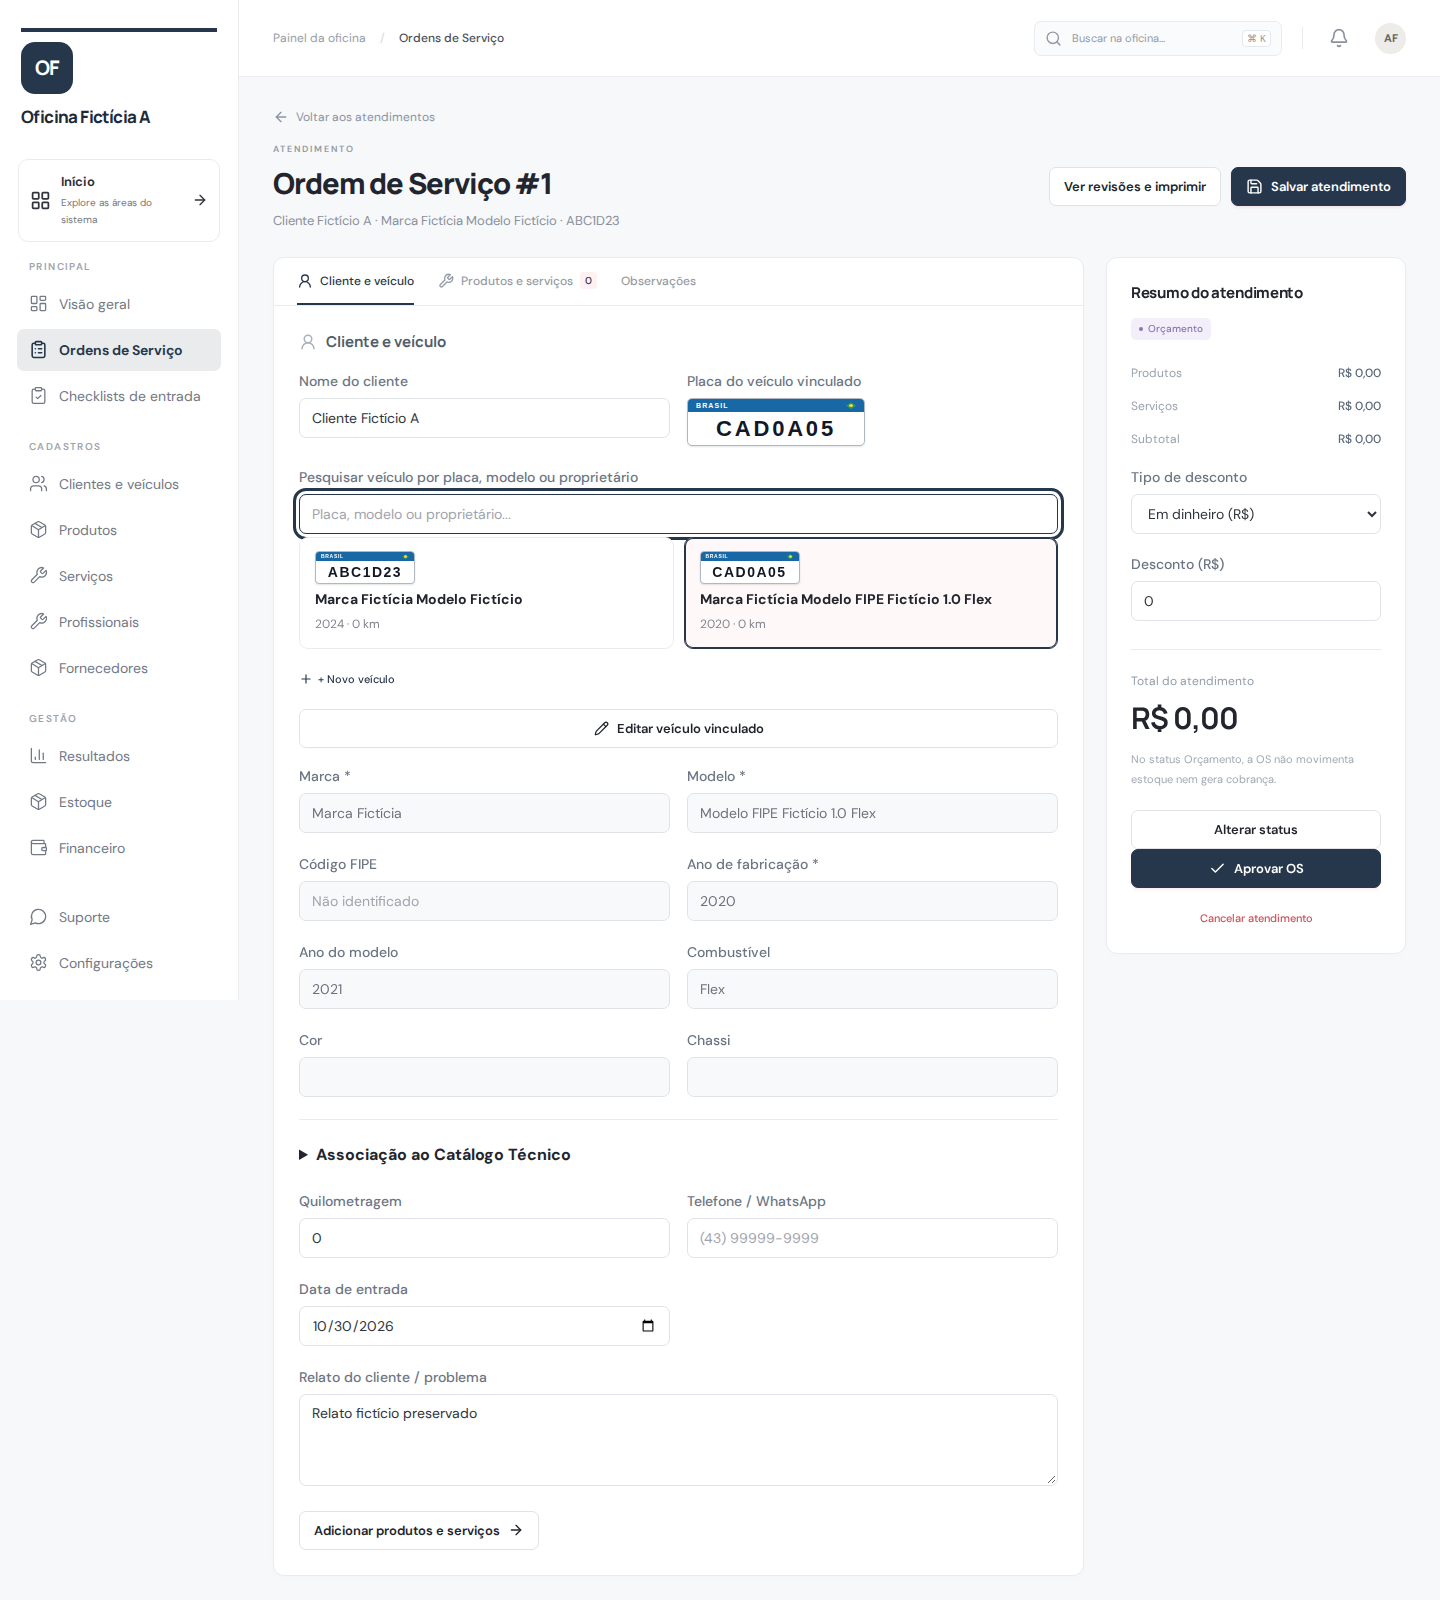
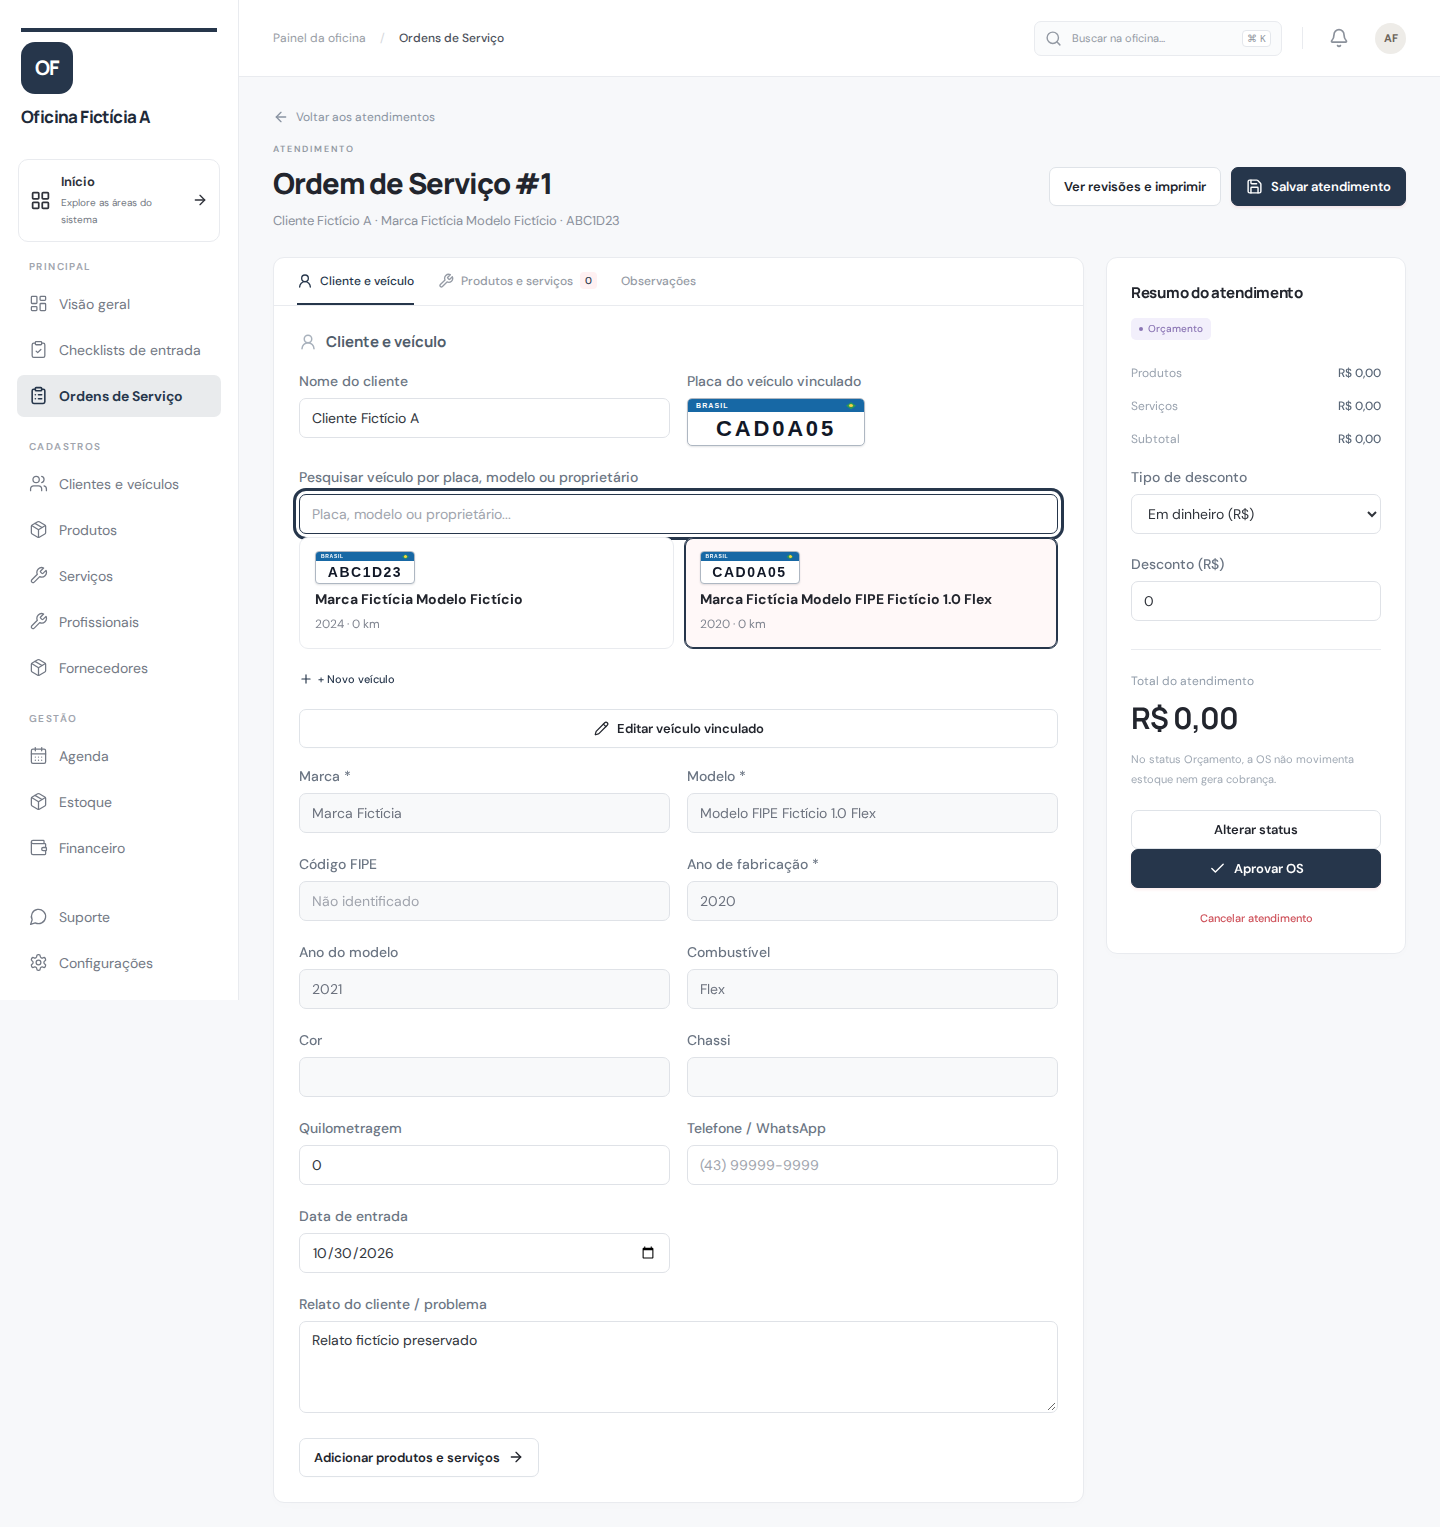
Preparar publicação da correção de modelo na OS do OSDrive

diff --git a/src/pages/OrderEditor.tsx b/src/pages/OrderEditor.tsx
@@ -27,10 +27,10 @@ import { useApp } from "../lib/context";
 import { send } from "../lib/api";
 import { saveOrderAndRefresh } from "../lib/orderSaveFlow";
 import { PlateField } from "../components/PlateField";
-import { fipeFields } from "../../shared/vehicleFipe";
+import { fipeFields, type FipeCandidate } from "../../shared/vehicleFipe";
 import { mergeVehicleLookup, lookupWouldReplace, vehicleDisplayModel } from "../../shared/vehicleIdentity";
 import { VehicleIdentityFields } from "../components/VehicleIdentityFields";
-import { VehicleTechnicalAssociation } from "../components/VehicleTechnicalAssociation";
+import { VehicleModelSelection } from "../components/VehicleModelSelection";
 import { RegisterModal } from "./Registers";
 import { money, today, statusLabel, type Entity } from "../lib/types";
 import {
@@ -112,7 +112,10 @@ function Editor({ order, quote }: { order?: Entity; quote: boolean }) {
     data.customers.find((c) => c.id === order?.customer_id)?.phone || "",
   );
   const initialVehicle = data.vehicles.find((v) => v.id === order?.vehicle_id);
-  const [lookedUp, setLookedUp] = useState<Record<string, any>>(initialVehicle || {});
+  const [lookedUp, setLookedUp] = useState<Record<string, any>>(() => initialVehicle || {
+    model: !order?.vehicle_id && !order?.guest_plate ? order?.guest_vehicle || "" : "",
+  });
+  const [plateCandidates, setPlateCandidates] = useState<FipeCandidate[]>([]);
   const [tab, setTab] = useState(initialCapture && order ? "items" : "details");
   const [itemKind, setItemKind] = useState("product");
   const [serviceModelId,setServiceModelId]=useState(data.vehicles.find(v=>v.id===order?.vehicle_id)?.service_model_id||'');
@@ -500,9 +503,11 @@ function Editor({ order, quote }: { order?: Entity; quote: boolean }) {
                       </Field>
                     ) : (
                     <PlateField
+                      showFipeSelection={false}
                       value={lookupPlate}
                       disabled={!!locked}
                       onChange={(plate) => {
+                        setPlateCandidates([]);
                         setLookupPlate(plate);
                         setLookedUp((current) => ({ ...current, plate }));
                         setError("");
@@ -515,6 +520,7 @@ function Editor({ order, quote }: { order?: Entity; quote: boolean }) {
                         }
                         setError("");
                         if (result.source === "local" && result.vehicle) {
+                          setPlateCandidates([]);
                           setLookedUp(result.vehicle);
                           setServiceModelId(String(result.vehicle.service_model_id || ""));
                           const owner = data.customers.find((c) => c.id === result.vehicle!.customer_id);
@@ -535,6 +541,7 @@ function Editor({ order, quote }: { order?: Entity; quote: boolean }) {
                           setCustomerPhone(owner.phone || "");
                         } else {
                           if (result.vehicle && lookupWouldReplace(lookedUp, result.vehicle) && !window.confirm("A consulta retornou dados diferentes dos já preenchidos. Aplicar os novos dados?")) return;
+                          setPlateCandidates(result.fipe_candidates || []);
                           const description = [result.vehicle?.brand, vehicleDisplayModel(result.vehicle)].filter(Boolean).join(" ");
                           setLookedUp(mergeVehicleLookup(lookedUp, result.vehicle));
                           setForm((f) => ({
@@ -597,19 +604,28 @@ function Editor({ order, quote }: { order?: Entity; quote: boolean }) {
                         Editar veículo vinculado
                       </button>
                     )}
-                    <VehicleIdentityFields vehicle={lookedUp} onChange={setLookedUp} disabled={!!form.vehicle_id} required={form.status !== "quote" || !!lookupPlate} />
-                    <VehicleTechnicalAssociation vehicle={lookedUp} modelId={serviceModelId} onModelChange={(id) => { setServiceModelId(id); setServiceModelTouched(true); setLookedUp((current) => ({ ...current, service_model_id: id || null, service_link_mode: id ? "manual" : "none" })); }} />
+                    <VehicleIdentityFields
+                      vehicle={vehicle || lookedUp}
+                      onChange={setLookedUp}
+                      disabled={!!form.vehicle_id || !!locked}
+                      required={form.status !== "quote" || !!lookupPlate}
+                      modelPicker={!form.vehicle_id && !locked ? (
+                        <VehicleModelSelection vehicle={lookedUp} required={form.status !== "quote" || !!lookupPlate} candidates={plateCandidates} onChange={(next) => {
+                          setLookedUp(next);
+                          handleServiceModelChange(String(next.service_model_id || ""));
+                          setForm((current) => ({
+                            ...current,
+                            guest_vehicle: !lookupPlate ? vehicleDisplayModel(next) : current.guest_vehicle,
+                          }));
+                        }} />
+                      ) : undefined}
+                    />
                     <Field label="Quilometragem">
                       <NumericInput type="number" min="0" value={form.km} onChange={(e) => set("km", Number(e.target.value))} />
                     </Field>
                     <Field label={!form.customer_id && customerName.trim() ? "Telefone / WhatsApp *" : "Telefone / WhatsApp"}>
                       <input type="tel" autoComplete="tel" maxLength={60} value={customerPhone} readOnly={!!form.customer_id} required={!form.customer_id && !!customerName.trim()} placeholder="(43) 99999-9999" onChange={(e) => setCustomerPhone(e.target.value)} />
                     </Field>
-                    {form.status === "quote" && !lookupPlate && !form.vehicle_id && (
-                      <Field label="Descrição do veículo (opcional)" full>
-                        <input maxLength={200} value={form.guest_vehicle} onChange={(e) => set("guest_vehicle", e.target.value)} />
-                      </Field>
-                    )}
                     {!form.customer_id && customerName.trim() && <p className="muted full">O cliente será cadastrado ao salvar o atendimento.</p>}
                     <Field label="Data de entrada">
                       <input type="date" value={form.entered_on} onChange={(e) => set("entered_on", e.target.value)} />

diff --git a/src/components/VehicleModelSelection.tsx b/src/components/VehicleModelSelection.tsx
@@ -7,10 +7,11 @@ type Option = { id: string; name: string; brand: string; fipe_code: string };
 type Choice = { key: string; name: string; detail: string; candidate?: FipeCandidate; option?: Option };
 const normalize = (value: string) => value.normalize("NFD").replace(/[\u0300-\u036f]/g, "").toLowerCase();
 
-export function VehicleModelSelection({ vehicle, onChange, candidates = [] }: {
+export function VehicleModelSelection({ vehicle, onChange, candidates = [], required = true }: {
   vehicle: Record<string, any>;
   onChange: (next: Record<string, any>) => void;
   candidates?: FipeCandidate[];
+  required?: boolean;
 }) {
   const [options, setOptions] = useState<Option[]>([]);
   const [message, setMessage] = useState("");
@@ -110,7 +111,7 @@ export function VehicleModelSelection({ vehicle, onChange, candidates = [] }: {
     }
   };
   return <section ref={rootRef} className="vehicle-technical-association full">
-    <label className="field"><span>Modelo *</span><input required type="search" role="combobox" aria-expanded={open} aria-controls={listId} aria-autocomplete="list" value={search} onFocus={() => { setOpen(true); setActiveIndex(0); }} onChange={(event) => { setSearchTouched(true); setSearch(event.target.value); setOpen(true); setActiveIndex(0); }} onKeyDown={keyDown} placeholder="Digite ou escolha o modelo do veículo..." maxLength={150} /></label>
+    <label className="field"><span>{required ? "Modelo *" : "Modelo"}</span><input required={required} type="search" role="combobox" aria-expanded={open} aria-controls={listId} aria-autocomplete="list" value={search} onFocus={() => { setOpen(true); setActiveIndex(0); }} onChange={(event) => { setSearchTouched(true); setSearch(event.target.value); setOpen(true); setActiveIndex(0); }} onKeyDown={keyDown} placeholder="Digite ou escolha o modelo do veículo..." maxLength={150} /></label>
     {open && <div className="catalog-dropdown" style={{ position: "relative", inset: "auto", width: "100%", marginTop: 4, zIndex: 2 }}>
       <div className="catalog-dropdown-list" style={{ maxHeight: 240 }}>
         <div id={listId} role="listbox" aria-label="Modelos do veículo">

diff --git a/tests/localPostgres.integration.ts b/tests/localPostgres.integration.ts
@@ -195,6 +195,7 @@ test("PostgreSQL local: autenticação, oficinas, transações e RLS do catálog
     const services=await catalogRead("local-a",()=>searchRepairServices(db,ctx,model,{q:serviceQuery}));
     const service=serviceId ? services.items.find(item=>item.service_id===serviceId) : services.items[0];
     assert.ok(service);
+    const existingOrderIds = (await listOrders(db, "local-a")).map((row) => row.id).sort();
     const stop=new Error("rollback fixture OS");
     await assert.rejects(db.transaction(async()=>{
        await db.prepare("SELECT set_config('app.user_id',?,true)").get(ctx.userId);
@@ -208,7 +209,7 @@ test("PostgreSQL local: autenticação, oficinas, transações e RLS do catálog
       assert.equal((await listOrders(db,"local-b")).length,0);
       throw stop;
     }),e=>e===stop);
-    assert.equal((await listOrders(db,"local-a")).length,0);
+    assert.deepEqual((await listOrders(db, "local-a")).map((row) => row.id).sort(), existingOrderIds);
   });
   await t.test("OS finalizada reabre com reversão atômica e bloqueia recebimento confirmado", async () => {
     const { saveOrder, transitionOrder, listOrders } = await import("../server/services/workshop");

diff --git a/docs/mapeamento-visual/CHECKLIST.md b/docs/mapeamento-visual/CHECKLIST.md
@@ -116,10 +116,10 @@ Estados: capturada, pendente, bloqueada e não aplicável.
 | cad005-review-mobile | Veículos | CAD-005 — Revisão de veículo (mobile) — Formulário real com dados fictícios; modelo em lista suspensa que fecha após a escolha. | [`capturas/04-veiculos/cad005-review-mobile.png`](./capturas/04-veiculos/cad005-review-mobile.png) | capturada | 2026-11-17 | 27c7fb615ef31f460c7b9d12778dfd91fecaba01 | — |
 | cad005-checklist-desktop | Checklist | CAD-005 — Veículo no checklist (desktop) — Formulário real com dados fictícios; modelo em lista suspensa que fecha após a escolha. | [`capturas/05-checklist/cad005-checklist-desktop.png`](./capturas/05-checklist/cad005-checklist-desktop.png) | capturada | 2026-11-17 | 27c7fb615ef31f460c7b9d12778dfd91fecaba01 | — |
 | cad005-checklist-mobile | Checklist | CAD-005 — Veículo no checklist (mobile) — Formulário real com dados fictícios; modelo em lista suspensa que fecha após a escolha. | [`capturas/05-checklist/cad005-checklist-mobile.png`](./capturas/05-checklist/cad005-checklist-mobile.png) | capturada | 2026-11-17 | 27c7fb615ef31f460c7b9d12778dfd91fecaba01 | — |
-| cad005-order-desktop | Orçamentos | CAD-005 — Veículo na abertura do atendimento (desktop) — Formulário real com dados fictícios; identificação FIPE independente da associação técnica. | [`capturas/06-orcamentos/cad005-order-desktop.png`](./capturas/06-orcamentos/cad005-order-desktop.png) | capturada | 2026-11-14 | 3f53da28177e3d9d5cca9811e7a403e008863a9a | — |
-| cad005-order-mobile | Orçamentos | CAD-005 — Veículo na abertura do atendimento (mobile) — Formulário real com dados fictícios; identificação FIPE independente da associação técnica. | [`capturas/06-orcamentos/cad005-order-mobile.png`](./capturas/06-orcamentos/cad005-order-mobile.png) | capturada | 2026-11-14 | 3f53da28177e3d9d5cca9811e7a403e008863a9a | — |
-| cad005-switch-desktop | Ordens de serviço | CAD-005 — Troca de veículo no atendimento (desktop) — Formulário real com dados fictícios; identificação FIPE independente da associação técnica. | [`capturas/07-ordens-servico/cad005-switch-desktop.png`](./capturas/07-ordens-servico/cad005-switch-desktop.png) | capturada | 2026-11-14 | 3f53da28177e3d9d5cca9811e7a403e008863a9a | — |
-| cad005-switch-mobile | Ordens de serviço | CAD-005 — Troca de veículo no atendimento (mobile) — Formulário real com dados fictícios; identificação FIPE independente da associação técnica. | [`capturas/07-ordens-servico/cad005-switch-mobile.png`](./capturas/07-ordens-servico/cad005-switch-mobile.png) | capturada | 2026-11-14 | 3f53da28177e3d9d5cca9811e7a403e008863a9a | — |
+| cad005-order-desktop | Orçamentos | CAD-005 — Veículo na abertura do atendimento (desktop) — Formulário real com dados fictícios e identificação pelo campo Modelo. | [`capturas/06-orcamentos/cad005-order-desktop.png`](./capturas/06-orcamentos/cad005-order-desktop.png) | capturada | 2026-11-21 | c4c59204f1b2ec5c68966db7ef7c71e332d11bcf | — |
+| cad005-order-mobile | Orçamentos | CAD-005 — Veículo na abertura do atendimento (mobile) — Formulário real com dados fictícios e identificação pelo campo Modelo. | [`capturas/06-orcamentos/cad005-order-mobile.png`](./capturas/06-orcamentos/cad005-order-mobile.png) | capturada | 2026-11-21 | c4c59204f1b2ec5c68966db7ef7c71e332d11bcf | — |
+| cad005-switch-desktop | Ordens de serviço | CAD-005 — Troca de veículo no atendimento (desktop) — Formulário real com dados fictícios e identificação pelo campo Modelo. | [`capturas/07-ordens-servico/cad005-switch-desktop.png`](./capturas/07-ordens-servico/cad005-switch-desktop.png) | capturada | 2026-11-21 | 61b620b82831eaf2708ff41f3fe7029c98a37584 | — |
+| cad005-switch-mobile | Ordens de serviço | CAD-005 — Troca de veículo no atendimento (mobile) — Formulário real com dados fictícios e identificação pelo campo Modelo. | [`capturas/07-ordens-servico/cad005-switch-mobile.png`](./capturas/07-ordens-servico/cad005-switch-mobile.png) | capturada | 2026-11-21 | 61b620b82831eaf2708ff41f3fe7029c98a37584 | — |
 | cad005-register-footer-mobile | Veículos | CAD-005 — Novo veículo (mobile) — rodapé — Formulário real com dados fictícios; modelo em lista suspensa que fecha após a escolha. | [`capturas/04-veiculos/cad005-register-footer-mobile.png`](./capturas/04-veiculos/cad005-register-footer-mobile.png) | capturada | 2026-11-17 | 27c7fb615ef31f460c7b9d12778dfd91fecaba01 | — |
 | cad005-review-footer-mobile | Veículos | CAD-005 — Revisão de veículo (mobile) — rodapé — Formulário real com dados fictícios; modelo em lista suspensa que fecha após a escolha. | [`capturas/04-veiculos/cad005-review-footer-mobile.png`](./capturas/04-veiculos/cad005-review-footer-mobile.png) | capturada | 2026-11-17 | 27c7fb615ef31f460c7b9d12778dfd91fecaba01 | — |
 | cad005-review-catalog-desktop | Veículos | CAD-005 — Escolha de modelo com FIPE divergente (desktop) — Formulário real com dados fictícios; modelo em lista suspensa que fecha após a escolha. | [`capturas/04-veiculos/cad005-review-catalog-desktop.png`](./capturas/04-veiculos/cad005-review-catalog-desktop.png) | capturada | 2026-11-17 | 27c7fb615ef31f460c7b9d12778dfd91fecaba01 | — |

diff --git a/docs/mapeamento-visual/INDEX.md b/docs/mapeamento-visual/INDEX.md
@@ -300,19 +300,19 @@ Estado: capturada · mobile · captura 2026-11-14 · commit de origem: 3f53da281
 
 ### CAD-005 — Veículo na abertura do atendimento (desktop)
 
-Formulário real com dados fictícios; identificação FIPE independente da associação técnica.
+Formulário real com dados fictícios e identificação pelo campo Modelo.
 
 [![CAD-005 — Veículo na abertura do atendimento (desktop)](./capturas/06-orcamentos/cad005-order-desktop.png)](./capturas/06-orcamentos/cad005-order-desktop.png)
 
-Estado: capturada · desktop · captura 2026-11-14 · commit de origem: 3f53da28177e3d9d5cca9811e7a403e008863a9a · [arquivo completo](./capturas/06-orcamentos/cad005-order-desktop.png)
+Estado: capturada · desktop · captura 2026-11-21 · commit de origem: c4c59204f1b2ec5c68966db7ef7c71e332d11bcf · [arquivo completo](./capturas/06-orcamentos/cad005-order-desktop.png)
 
 ### CAD-005 — Veículo na abertura do atendimento (mobile)
 
-Formulário real com dados fictícios; identificação FIPE independente da associação técnica.
+Formulário real com dados fictícios e identificação pelo campo Modelo.
 
 [![CAD-005 — Veículo na abertura do atendimento (mobile)](./capturas/06-orcamentos/cad005-order-mobile.png)](./capturas/06-orcamentos/cad005-order-mobile.png)
 
-Estado: capturada · mobile · captura 2026-11-14 · commit de origem: 3f53da28177e3d9d5cca9811e7a403e008863a9a · [arquivo completo](./capturas/06-orcamentos/cad005-order-mobile.png)
+Estado: capturada · mobile · captura 2026-11-21 · commit de origem: c4c59204f1b2ec5c68966db7ef7c71e332d11bcf · [arquivo completo](./capturas/06-orcamentos/cad005-order-mobile.png)
 
 ## 07 — Ordens de serviço
 
@@ -368,19 +368,19 @@ Estado: capturada · mobile · captura 2026-11-14 · commit de origem: 3f53da281
 
 ### CAD-005 — Troca de veículo no atendimento (desktop)
 
-Formulário real com dados fictícios; identificação FIPE independente da associação técnica.
+Formulário real com dados fictícios e identificação pelo campo Modelo.
 
 [![CAD-005 — Troca de veículo no atendimento (desktop)](./capturas/07-ordens-servico/cad005-switch-desktop.png)](./capturas/07-ordens-servico/cad005-switch-desktop.png)
 
-Estado: capturada · desktop · captura 2026-11-14 · commit de origem: 3f53da28177e3d9d5cca9811e7a403e008863a9a · [arquivo completo](./capturas/07-ordens-servico/cad005-switch-desktop.png)
+Estado: capturada · desktop · captura 2026-11-21 · commit de origem: 61b620b82831eaf2708ff41f3fe7029c98a37584 · [arquivo completo](./capturas/07-ordens-servico/cad005-switch-desktop.png)
 
 ### CAD-005 — Troca de veículo no atendimento (mobile)
 
-Formulário real com dados fictícios; identificação FIPE independente da associação técnica.
+Formulário real com dados fictícios e identificação pelo campo Modelo.
 
 [![CAD-005 — Troca de veículo no atendimento (mobile)](./capturas/07-ordens-servico/cad005-switch-mobile.png)](./capturas/07-ordens-servico/cad005-switch-mobile.png)
 
-Estado: capturada · mobile · captura 2026-11-14 · commit de origem: 3f53da28177e3d9d5cca9811e7a403e008863a9a · [arquivo completo](./capturas/07-ordens-servico/cad005-switch-mobile.png)
+Estado: capturada · mobile · captura 2026-11-21 · commit de origem: 61b620b82831eaf2708ff41f3fe7029c98a37584 · [arquivo completo](./capturas/07-ordens-servico/cad005-switch-mobile.png)
 
 ### OS atribuída — perfil Mecânico
 
